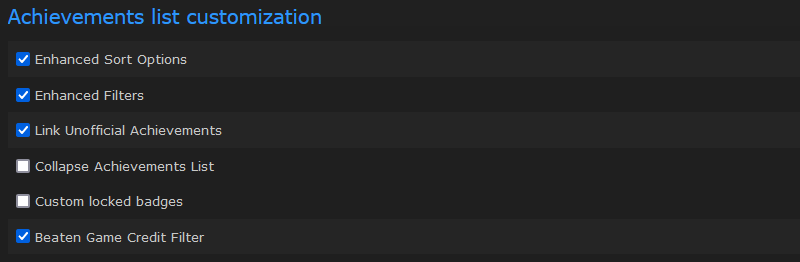
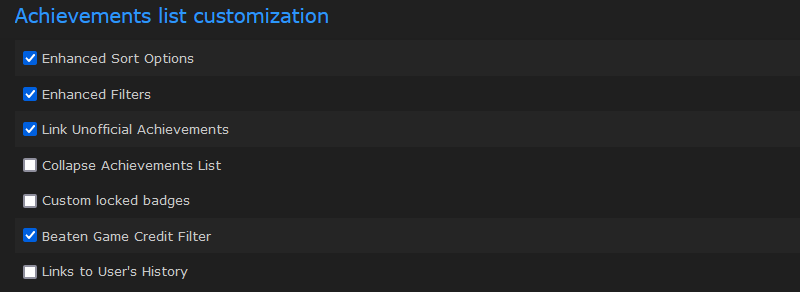
CustomCheevosList: adds links to the user's history on the cheevos unlock dates + doc updated

diff --git a/RA_CustomCheevosList.user.js b/RA_CustomCheevosList.user.js
@@ -31,7 +31,15 @@ function setRowVisibility(element, visible) {
 }
 
 function getElementByXpath(root, xpath) {
-  return document.evaluate(xpath, root, null, XPathResult.FIRST_ORDERED_NODE_TYPE, null).singleNodeValue;
+    return document.evaluate(xpath, root, null, XPathResult.FIRST_ORDERED_NODE_TYPE, null).singleNodeValue;
+}
+
+function getElementsByXpath(root, xpath) {
+    const results = document.evaluate(xpath, root, null, XPathResult.ORDERED_NODE_ITERATOR_TYPE, null);
+    const nodes = [];
+    let node;
+    while (node = results.iterateNext()) nodes.push(node);
+    return nodes;
 }
 
 // Handling "Beaten Game Credit" modals when they are loaded (one per button)
@@ -75,6 +83,11 @@ const settingsHtml = `<div class="component">
       </td>
     </tr>
     <tr><th colspan="2"><label><input id="filterBeatenCreditListActive" type="checkbox"> Beaten Game Credit Filter</label></th></tr>
+    <tr><th colspan="2"><label><input id="historyLinksActive" type="checkbox"> Links to User's History</label></th></tr>
+    <tr>
+      <td>Link CSS style</td>
+      <td><input id="historyLinksStyle" type="text"> <div id="historyLinksStyleExample" class="icon cursor-pointer" title="click for an example with underline and no link color">💡</div></td>
+    </tr>
   </tbody></table>
 </div>`;
 
@@ -457,7 +470,7 @@ const CollapseAchievementsList = (() => {
         activeCheckbox.addEventListener('change', () => {
             Settings.active = activeCheckbox.checked;
             setRowVisibility(collapseOnLoadRadios[0], Settings.active);
-            saveSettings()
+            saveSettings();
         });
         activeCheckbox.dispatchEvent(new Event('change'));
 
@@ -708,6 +721,62 @@ const FilterBeatenCreditList = (() => {
     return { gamePage, settingsPage };
 })();
 
+const HistoryLinks = (() => {
+    const DefaultSettings = {
+        active: false,
+        style:''
+    };
+
+    const Settings = loadSettings('historyLinks', DefaultSettings);
+
+    function saveSettings() {
+        GM_setValue('historyLinks', Settings);
+    }
+
+    function settingsPage() {
+        const activeCheckbox = document.getElementById('historyLinksActive');
+        activeCheckbox.checked = Settings.active;
+        const historyLinksStyleText = document.getElementById('historyLinksStyle');
+        historyLinksStyleText.value = Settings.style;
+
+        activeCheckbox.addEventListener('change', () => {
+            Settings.active = activeCheckbox.checked;
+            setRowVisibility(historyLinksStyleText, Settings.active);
+            saveSettings();
+        });
+        activeCheckbox.dispatchEvent(new Event('change'));
+        historyLinksStyleText.addEventListener('change', () => {
+            Settings.style = historyLinksStyleText.value.trim();
+            saveSettings();
+        });
+        document.getElementById('historyLinksStyleExample').addEventListener('click', () => {
+            historyLinksStyleText.value = 'color: inherit;text-decoration: underline;';
+            historyLinksStyleText.dispatchEvent(new Event('change'));
+        });
+    }
+
+    function gamePage() {
+        if (!Settings.active) return;
+        const achievementsList = document.getElementById('set-achievements-list');
+        if (achievementsList == null) return;
+        const currentUser = document.querySelector('div.dropdown-menu-right div.dropdown-header')?.textContent;
+        if (!currentUser) return;
+        getElementsByXpath(achievementsList, '//p[contains(text(), "Unlocked")]').forEach(p => {
+            p.innerHTML = p.innerText.replace(/Unlocked ([A-Z][a-z]+ [0-9]+ [0-9]{4})/, (fullMatch, date) => {
+                const timestamp = new Date(date + ' UTC').getTime() / 1000;
+                return `Unlocked <a class="historyLink" href="/historyexamine.php?d=${timestamp}&amp;u=${currentUser}">${date}</a>`;
+            });
+        });
+        if (Settings.style?.length > 0) {
+            const styleBlock = document.createElement('style');
+            styleBlock.innerHTML = `.historyLink { ${Settings.style }`;
+            document.head.appendChild(styleBlock);
+        }
+    }
+
+    return { gamePage, settingsPage };
+})();
+
 const Pages = {
     game: () => {
         EnhancedCheevosSort.gamePage();
@@ -716,6 +785,7 @@ const Pages = {
         CollapseAchievementsList.gamePage();
         CustomLockedBadges.gamePage();
         FilterBeatenCreditList.gamePage();
+        HistoryLinks.gamePage();
     },
     achievement: () => {
         CustomLockedBadges.gamePage();
@@ -733,6 +803,7 @@ const Pages = {
         CollapseAchievementsList.settingsPage();
         CustomLockedBadges.settingsPage();
         FilterBeatenCreditList.settingsPage();
+        HistoryLinks.settingsPage();
     }
 };
 

diff --git a/README.md b/README.md
@@ -142,6 +142,16 @@ Adds a filter on *Beaten Game Credit* widgets to only show remaining achievement
 
 ![beaten game credit filter none](/assets/BeatenGameFilter_none.png) ![beaten game credit filter remaining](/assets/BeatenGameFilter_remaining.png) ![beaten game credit filter remaining hardcore](/assets/BeatenGameFilter_remaining_hc.png)
 
+### Links to User's History
+
+Replaces the dates on achievements unlocks by links to the user's history for that date.
+
+![history links](/assets/CustomCheevosList_historyLinks.png)
+
+The style of the link can be edited in the settings.
+
+![history links settings](/assets/CustomCheevosList_historyLinks_settings.png) ![history links style example](/assets/CustomCheevosList_historyLinks_style.png)
+
 ## RA_GameListTagFilter
 
 Adds a filter on games titles tags on game list pages: *All Games*, *Want to Play*, *Claim List*, *Most Requested*, *Hardest Games*.
